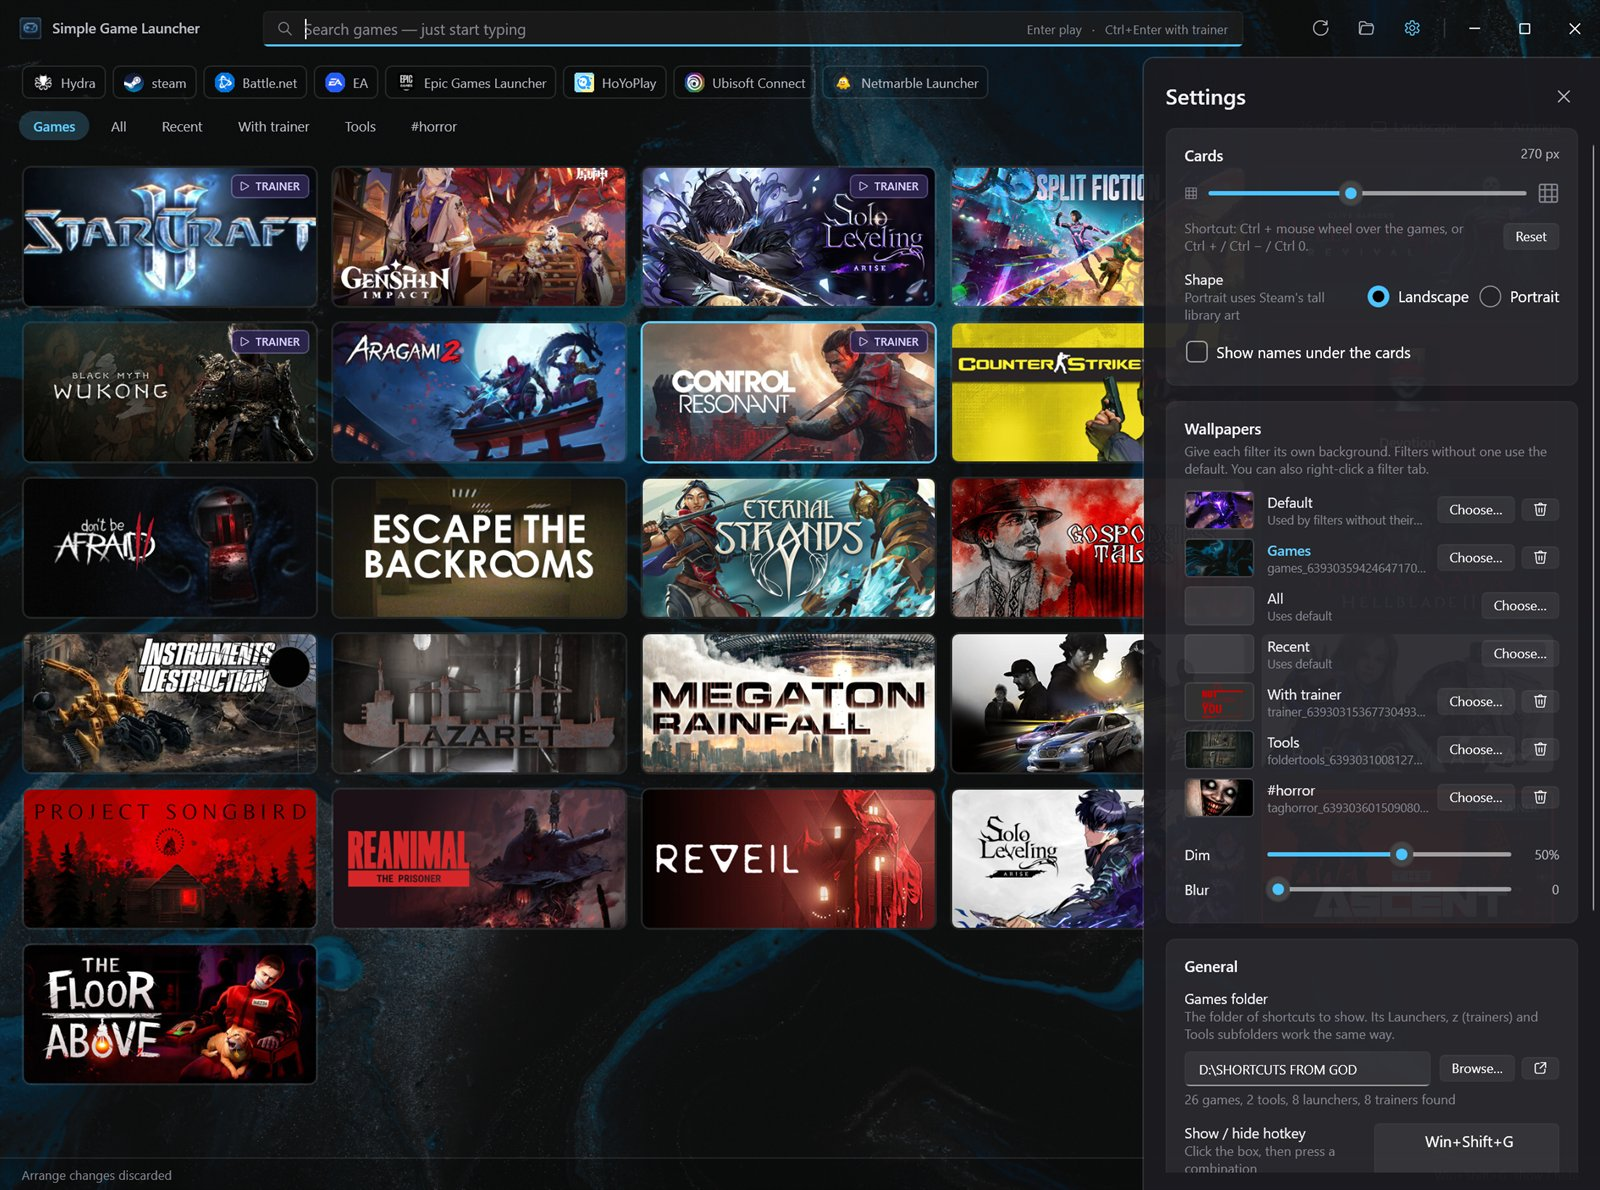
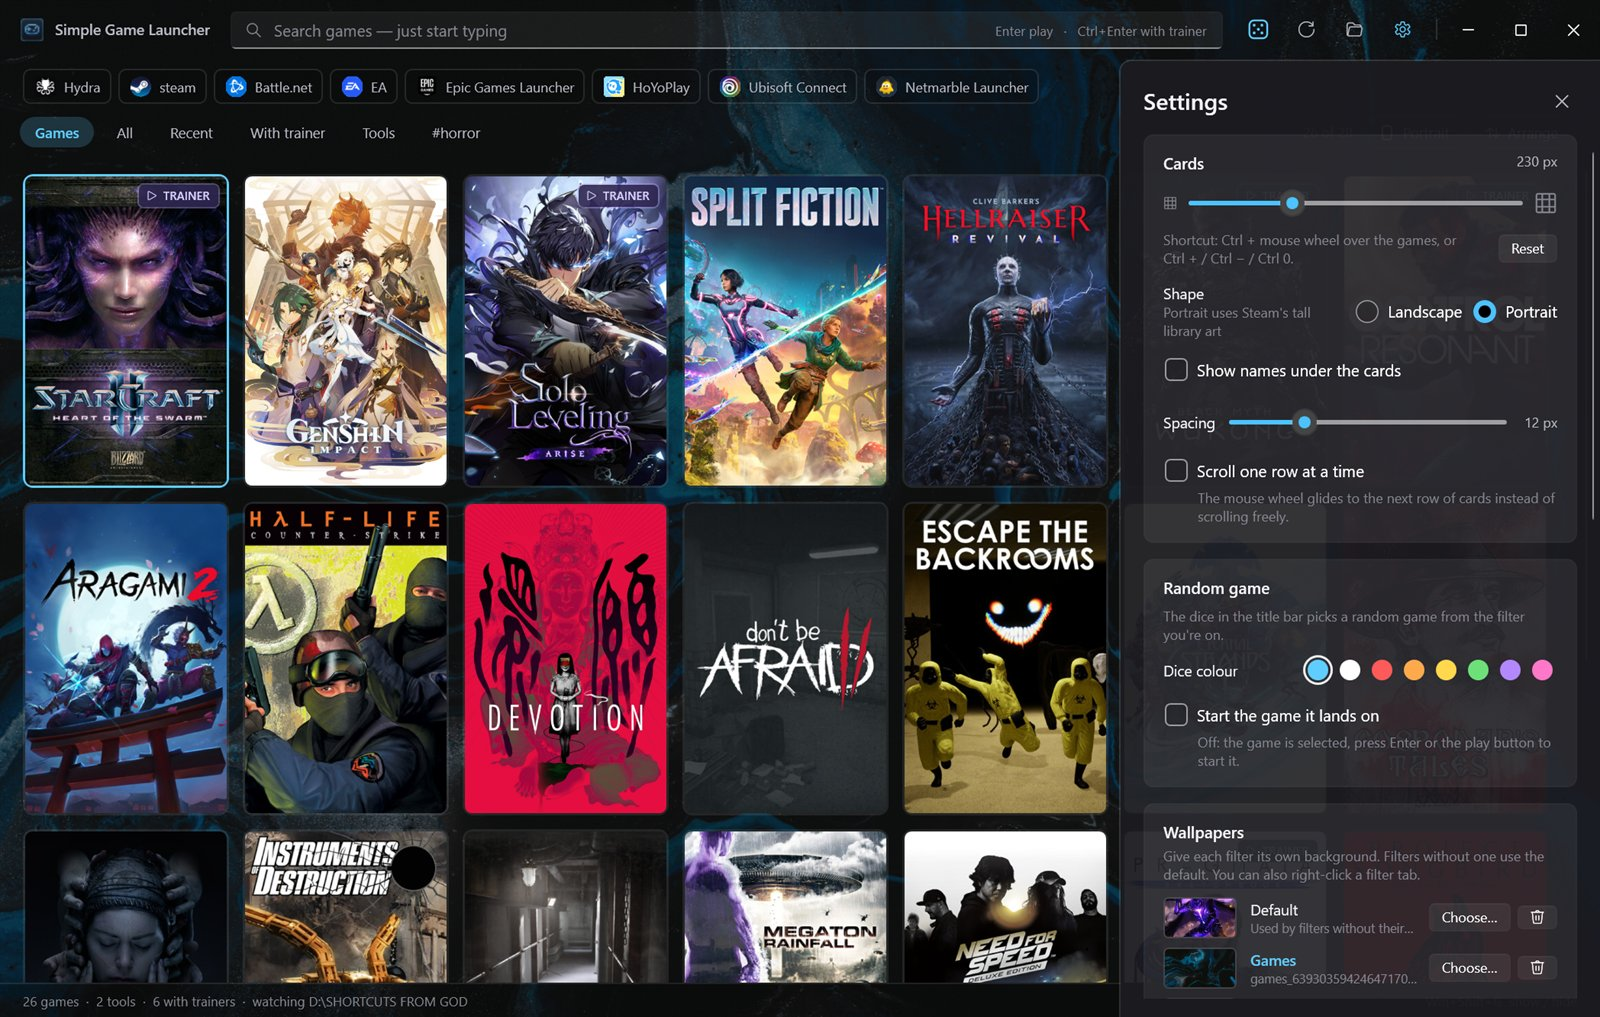
README: what's new, new features and fresh screenshots
- New "What's new" section and update note under Download.
- Features cover the play button, random-game dice, spacing, row
  scrolling, dark tray menu, shortcut trainers and the tips / trainers
  switches.
- Retaken screenshots (dice in the header, new settings) plus a second
  settings shot for the General section.

diff --git a/README.md b/README.md
@@ -2,7 +2,7 @@
 
 A small, native Windows 11 launcher for a folder of game shortcuts. Point it at a folder full of `.lnk` / `.url` shortcuts and it turns them into a searchable grid of cover-art tiles: no browser, no account, no library import.
 
-![Simple Game Launcher: a grid of game covers with a launcher bar and filter tabs](docs/screenshots/main.jpg)
+![Simple Game Launcher: a grid of game covers with a launcher bar, filter tabs and the random-game dice](docs/screenshots/main.jpg)
 
 ## Download
 
@@ -12,6 +12,17 @@ A small, native Windows 11 launcher for a folder of game shortcuts. Point it at 
 
 It's a single file with everything included: no installer, nothing else to install. Windows may show a SmartScreen warning because the exe isn't signed: click **More info → Run anyway**.
 
+To update, replace `GameLauncher.exe` with the new one. Your settings, covers and wallpapers next to it are kept.
+
+## What's new
+
+- **Play button on hover:** point at a game and a ▶ button appears. Click to play, Ctrl+click to play with the trainer.
+- **Random game dice** in the title bar: it rolls across your games and lands on one. Pick its colour in Settings.
+- **Card spacing** slider and **scroll one row at a time** (smooth mouse-wheel scrolling).
+- **Turn trainers off** completely, and **turn hover tips off**, from Settings.
+- **Any shortcut in the `z` folder** now works as a trainer, not just `.exe` files.
+- **Dark tray menu**, and launchers can be reordered in Arrange mode.
+
 ## Features
 
 **Your games, at a glance**
@@ -19,28 +30,35 @@ It's a single file with everything included: no installer, nothing else to insta
 - **Find cover online…** (right-click a game → Cover): search Steam, the Microsoft Store and GOG yourself, preview the results and pick a landscape and a portrait image separately. Or use any image file.
 - **Landscape or portrait cards**, switched with one click, with or without names under them.
 - **Tiles without a cover** get a soft glow in the colours of the game's icon.
-- **Hover effect:** the card lifts, the art zooms, a light sweeps across it and it glows in the cover's own colours.
+- **Hover effect:** the card lifts, a light sweeps across it, it glows in the cover's own colours and a ▶ play button pops up.
+- **Spacing** between cards is adjustable, and the mouse wheel can **scroll one row at a time**.
 
 ![Portrait cards with names, Steam library art and an automatic Microsoft Store cover for Genshin Impact](docs/screenshots/portrait-cards.jpg)
 
 **Find and start games fast**
 - **Just start typing** to search by name, initials (`bmw` → Black Myth Wukong), tag or folder. Enter plays.
+- **Can't decide?** The dice in the title bar picks a random game from the filter you're on (and can start it for you).
 - **Launcher bar** with your store apps (Steam, Epic, EA, Battle.net, …) from a `Launchers` subfolder.
 - **Filters:** Games, All, Recent, With trainer, one tab per subfolder (e.g. `Tools`) and one per tag.
-- **Global hotkey** (default `Win+Shift+G`) and a tray icon: the launcher is always one keypress away.
+- **Global hotkey** (default `Win+Shift+G`) and a dark tray icon menu: the launcher is always one keypress away.
 - **Live folder watching:** add, remove or rename a shortcut and the grid updates within a second.
 
 **Make it yours**
 - **Arrange mode:** drag games, filter tabs and launchers into your own order. Alt+arrows nudge, Reset puts everything back A–Z.
 - **Tags** with a one-click tag editor.
 - **Wallpapers** per filter, with dim and blur. Adjustable card size, Mica window, start with Windows.
+- **Hover tips** (game names, play and trainer hints, button descriptions) can be switched off.
 
 ![Arrange mode: drag handles on every game, filter tab and launcher](docs/screenshots/arrange.jpg)
 
 **Trainers**
-- Put trainer `.exe`s in a `z` subfolder: they're matched to games by name and get a TRAINER badge. **Ctrl+Enter** starts the game, then the trainer after a delay you choose.
+- Put trainers in a `z` subfolder: `.exe` files with "trainer" in the name, or any shortcut (`.lnk` / `.url`), for example to a companion tool. They're matched to games by name and get a TRAINER badge.
+- **Ctrl+Enter** (or Ctrl+click on ▶) starts the game, then the trainer after a delay you choose.
+- Don't use trainers? Switch them off in Settings: the badges, the "With trainer" filter and the trainer menus disappear.
 
-![Settings: card size and shape, wallpapers per filter, games folder and hotkey](docs/screenshots/settings.jpg)
+| Cards, spacing, scrolling and the dice | General: trainers, tips and more |
+| --- | --- |
+| ![Settings: card size, shape, spacing, one-row scrolling and the random-game dice colour](docs/screenshots/settings.jpg) | ![Settings: games folder, hotkey, use trainers, trainer delay, show tips and other options](docs/screenshots/settings-general.jpg) |
 
 ## Folder layout it understands
 
@@ -49,7 +67,7 @@ My Games Folder\
 ├─ Some Game.lnk           ← games (any .lnk / .url)
 ├─ Another Game.url
 ├─ Launchers\              ← shown as the launcher bar
-├─ z\                      ← trainers (*Trainer*.exe / .lnk), matched to games by name
+├─ z\                      ← trainers (*Trainer*.exe, or any .lnk / .url), matched to games by name
 └─ Tools\                  ← any other subfolder becomes its own filter tab
                              (Tools is excluded from the Games filter)
 ```
@@ -72,7 +90,7 @@ Epic doesn't allow outside apps to search its store, but many Epic games are als
 | --- | --- |
 | type anything | search (name, initials like `bmw`, tags, folder) |
 | Arrows · Enter | select · play |
-| Ctrl+Enter | play with trainer |
+| Ctrl+Enter | play with trainer (when trainers are on) |
 | Esc | clear search / hide |
 | Ctrl+Tab | next filter |
 | Ctrl + / − / 0, Ctrl+wheel | card size |
@@ -103,6 +121,6 @@ The published `app\GameLauncher.exe` is a single file. On first start it opens S
 Push a version tag and GitHub Actions builds the self-contained exe and publishes the release:
 
 ```powershell
-git tag v1.0.2
-git push origin v1.0.2
+git tag v1.0.4
+git push origin v1.0.4
 ```
